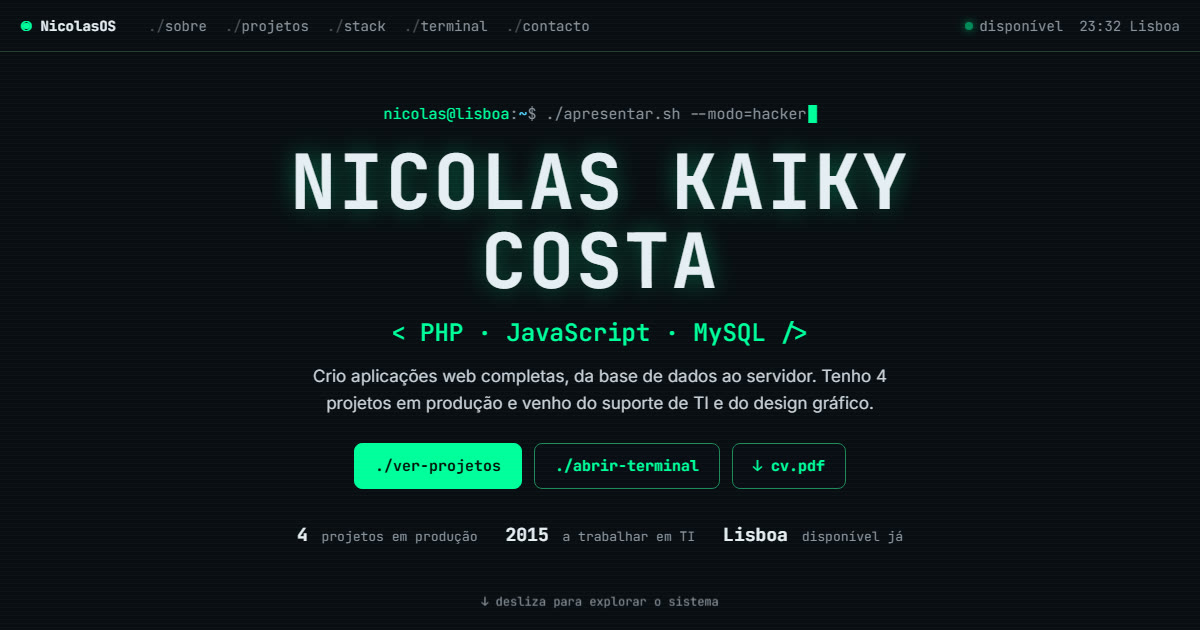
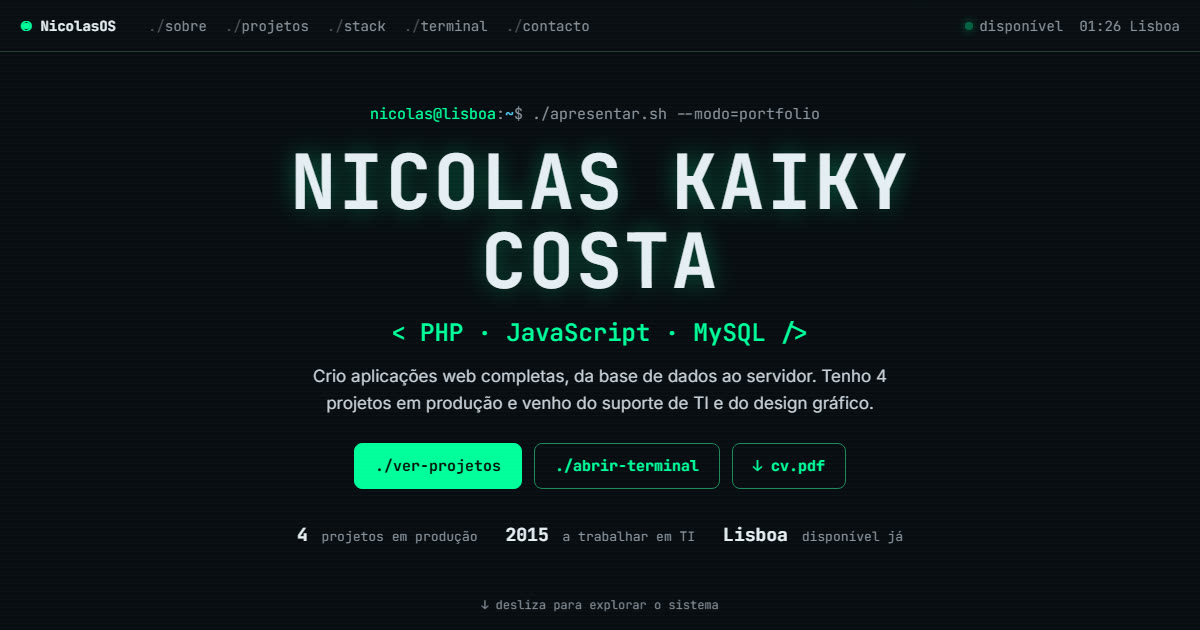
Topo: --modo=portfolio em vez de --modo=hacker (também na imagem de partilha)

Changed region(s): [[0.3083, 0.1508, 0.6783, 0.2111], [0.4008, 0.9349, 0.6167, 0.9651], [0.8942, 0.0302, 0.925, 0.0603]]

diff --git a/app.js b/app.js
@@ -126,7 +126,7 @@
         if (++f > alvo.length * 2 + 8) { clearInterval(t); h1.textContent = alvo; }
       }, 45);
     }
-    escrever($("#hero-cmd"), "./apresentar.sh --modo=hacker", 40);
+    escrever($("#hero-cmd"), "./apresentar.sh --modo=portfolio", 40);
     // papéis em rotação
     const papeis = ["Desenvolvedor Web Júnior", "PHP · JavaScript · MySQL", "4 projetos em produção", "Suporte de TI desde 2015", "Disponível em Lisboa"];
     let p = 0;

diff --git a/index.html b/index.html
@@ -178,6 +178,6 @@
 </div>
 
 <div id="toast" class="toast" hidden></div>
-<script src="app.js?v=4"></script>
+<script src="app.js?v=5"></script>
 </body>
 </html>
